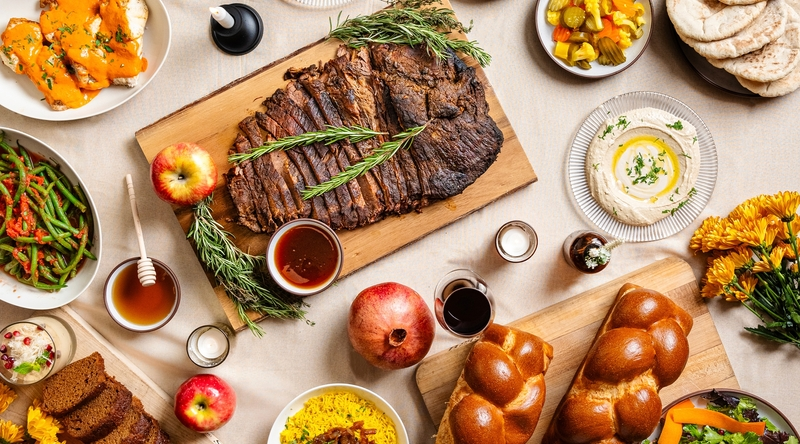
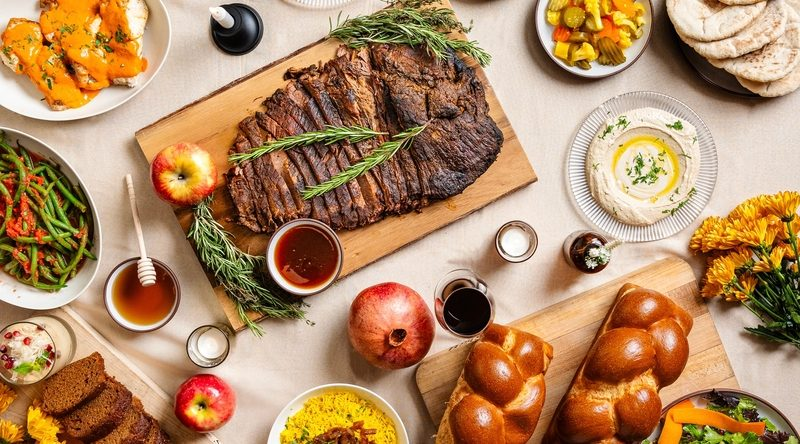
Fix core SEO fundamentals: meta tags, structured data, robots/sitemap, image weight
- Add unique meta descriptions, geo-targeted titles, canonical links, and
  Open Graph/Twitter tags to every page (previously none existed anywhere)
- Add FoodEstablishment JSON-LD schema on the homepage listing all delivery
  zones and pricing, for rich results eligibility
- Add robots.txt and sitemap.xml (neither existed before)
- Add noindex to admin/checkout/confirmation pages
- Fix homepage copy to include real geo/service keywords (Miami, Aventura,
  Fort Lauderdale) that were previously buried and invisible to search
- Compress all product/hero images from PNG to optimized JPEG (25.8MB ->
  2.2MB across images/), add width/height and loading=lazy/fetchpriority
  attributes to prevent layout shift and improve LCP
- Split Cache-Control in vercel.json so static assets get long-lived caching
  instead of no-cache on everything

Changed region(s): [[0.0625, 0.9955, 0.0938, 1.0], [0.0312, 0.0878, 0.0625, 0.1171]]

diff --git a/index.html b/index.html
@@ -4,7 +4,19 @@
   <meta charset="UTF-8"/>
   <meta name="viewport" content="width=device-width, initial-scale=1.0"/>
   <meta name="color-scheme" content="light"/>
-  <title>Chefaleh — Private Chef Shabbat Delivery</title>
+  <title>Chefaleh — Private Chef Shabbat Delivery in Miami, Aventura & Fort Lauderdale</title>
+  <meta name="description" content="Chefaleh delivers restaurant-quality, private-chef Shabbat meals to Miami Beach, Surfside, Bal Harbour, Aventura, Sunny Isles Beach, Hollywood, Hallandale, Fort Lauderdale, Pompano Beach and Boca Raton. Order fresh, ready-to-heat dinners for your table."/>
+  <link rel="canonical" href="https://chefaleh.com/"/>
+  <meta property="og:type" content="website"/>
+  <meta property="og:site_name" content="Chefaleh"/>
+  <meta property="og:title" content="Chefaleh — Private Chef Shabbat Delivery in Miami"/>
+  <meta property="og:description" content="Restaurant-quality private-chef Shabbat meals delivered fresh to Miami Beach, Aventura, Fort Lauderdale and surrounding areas."/>
+  <meta property="og:url" content="https://chefaleh.com/"/>
+  <meta property="og:image" content="https://chefaleh.com/images/shabbat_table_hero.jpg"/>
+  <meta name="twitter:card" content="summary_large_image"/>
+  <meta name="twitter:title" content="Chefaleh — Private Chef Shabbat Delivery in Miami"/>
+  <meta name="twitter:description" content="Restaurant-quality private-chef Shabbat meals delivered fresh to Miami Beach, Aventura, Fort Lauderdale and surrounding areas."/>
+  <meta name="twitter:image" content="https://chefaleh.com/images/shabbat_table_hero.jpg"/>
   <script src="https://cdn.tailwindcss.com"></script>
   <link href="https://fonts.googleapis.com/css2?family=Cormorant+Garamond:ital,wght@0,300;0,400;0,600;0,700;1,300;1,400;1,600&family=Jost:wght@200;300;400;500&display=swap" rel="stylesheet"/>
   <script>
@@ -90,6 +102,42 @@
     .bg-charcoal\/75 { background-color: rgba(26,26,26,.75) !important; }
     .bg-charcoal\/40 { background-color: rgba(26,26,26,.40) !important; }
   </style>
+  <script type="application/ld+json">
+  {
+    "@context": "https://schema.org",
+    "@type": "FoodEstablishment",
+    "name": "Chefaleh",
+    "description": "Private-chef Shabbat meal delivery service serving South Florida.",
+    "url": "https://chefaleh.com/",
+    "image": "https://chefaleh.com/images/shabbat_table_hero.jpg",
+    "email": "[email redacted]",
+    "servesCuisine": "Kosher-style Shabbat cuisine",
+    "priceRange": "$$",
+    "areaServed": [
+      { "@type": "City", "name": "Miami Beach" },
+      { "@type": "City", "name": "Surfside" },
+      { "@type": "City", "name": "Bal Harbour" },
+      { "@type": "City", "name": "North Bay Village" },
+      { "@type": "City", "name": "Aventura" },
+      { "@type": "City", "name": "Sunny Isles Beach" },
+      { "@type": "City", "name": "North Miami Beach" },
+      { "@type": "City", "name": "Hollywood" },
+      { "@type": "City", "name": "Hallandale Beach" },
+      { "@type": "City", "name": "Fort Lauderdale" },
+      { "@type": "City", "name": "Pompano Beach" },
+      { "@type": "City", "name": "Boca Raton" }
+    ],
+    "hasOfferCatalog": {
+      "@type": "OfferCatalog",
+      "name": "Delivery Zones",
+      "itemListElement": [
+        { "@type": "Offer", "name": "Zone 1 — Core Area Delivery", "price": "15", "priceCurrency": "USD" },
+        { "@type": "Offer", "name": "Zone 2 — Extended Area Delivery", "price": "30", "priceCurrency": "USD" },
+        { "@type": "Offer", "name": "Zone 3 — Long Range Delivery", "price": "60", "priceCurrency": "USD" }
+      ]
+    }
+  }
+  </script>
 </head>
 <body>
 
@@ -159,18 +207,18 @@
      HERO
 ──────────────────────────────────────────────────────────────── -->
 <section class="relative min-h-screen flex items-center overflow-hidden">
-  <img src="images/shabbat_table_hero.png" alt="Elegant Shabbat Table" class="hero-img"/>
+  <img src="images/shabbat_table_hero.jpg" alt="Elegant Shabbat Table" class="hero-img" width="1536" height="864" fetchpriority="high"/>
   <div class="hero-overlay"></div>
 
   <div class="relative z-10 w-full max-w-7xl mx-auto px-6 md:px-10 py-36 flex flex-col items-center text-center fade-up">
     <p class="text-gold text-[10px] md:text-[11px] tracking-[.5em] uppercase mb-6 font-light" style="text-shadow:0 1px 8px rgba(0,0,0,.8)">
-      Private Chef Experience
+      Private Chef Shabbat Delivery &middot; Miami
     </p>
     <h1 class="font-serif text-white font-semibold leading-[1.07] mb-7" style="font-size:clamp(2.8rem,7.5vw,5.8rem);text-shadow:0 4px 20px rgba(0,0,0,.7)">
       Elevated Traditions,<br/><em class="font-light italic text-white/90">Curated for Your Table</em>
     </h1>
     <p class="text-white/80 font-light text-sm md:text-[15px] leading-relaxed mb-11 max-w-md md:max-w-xl mx-auto" style="text-shadow:0 1px 10px rgba(0,0,0,.7)">
-      Bespoke Shabbat cuisine crafted with hand-selected ingredients<br class="hidden sm:block"/> and small-batch precision.
+      Bespoke Shabbat cuisine for Miami tables, crafted with hand-selected ingredients<br class="hidden sm:block"/> and small-batch precision.
     </p>
     <div class="flex flex-col sm:flex-row gap-4 items-center justify-center">
       <a href="menu.html" class="bg-gold text-charcoal px-10 py-4 text-[11px] tracking-[.32em] uppercase font-medium hover:bg-white transition-all duration-300 w-full sm:w-auto text-center min-w-[180px]">
@@ -290,7 +338,7 @@
           </div>
         </div>
         <div class="hover-zoom" style="height:170px">
-          <img src="images/new_meat.png" alt="Premium meat dish" class="w-full h-full object-cover object-center"/>
+          <img src="images/new_meat.jpg" alt="Premium meat dish" class="w-full h-full object-cover object-center" width="1408" height="1056" loading="lazy"/>
         </div>
       </div>
     </div>
@@ -303,7 +351,7 @@
 <section class="py-24 md:py-28 bg-charcoal relative overflow-hidden">
   <!-- subtle bg texture -->
   <div class="absolute inset-0 opacity-8 pointer-events-none">
-    <img src="images/food1.jpg" alt="" class="w-full h-full object-cover"/>
+    <img src="images/food1.jpg" alt="" class="w-full h-full object-cover" width="1600" height="889" loading="lazy"/>
     <div class="absolute inset-0 bg-charcoal/75"></div>
   </div>
 
@@ -331,13 +379,13 @@
 
     <div class="grid grid-cols-1 md:grid-cols-3 gap-5 mb-12">
       <div class="hover-zoom" style="height:300px">
-        <img src="images/food3.png" alt="Featured dish" class="w-full h-full object-cover"/>
+        <img src="images/food3.jpg" alt="Featured dish" class="w-full h-full object-cover" width="1200" height="1600" loading="lazy"/>
       </div>
       <div class="hover-zoom dish-mid" style="height:300px">
-        <img src="images/food4.png" alt="Featured dish" class="w-full h-full object-cover"/>
+        <img src="images/food4.jpg" alt="Featured dish" class="w-full h-full object-cover" width="1200" height="1600" loading="lazy"/>
       </div>
       <div class="hover-zoom" style="height:300px">
-        <img src="images/food5.png" alt="Featured dish" class="w-full h-full object-cover"/>
+        <img src="images/food5.jpg" alt="Featured dish" class="w-full h-full object-cover" width="1200" height="1600" loading="lazy"/>
       </div>
     </div>
 
@@ -422,7 +470,7 @@
   <div class="grid grid-cols-1 lg:grid-cols-2">
     <!-- Image left -->
     <div class="hover-zoom" style="min-height:340px">
-      <img src="images/food1.jpg" alt="Chefaleh dish" class="w-full h-full object-cover" style="min-height:340px"/>
+      <img src="images/food1.jpg" alt="Chefaleh dish" class="w-full h-full object-cover" style="min-height:340px" width="1600" height="889" loading="lazy"/>
     </div>
     <!-- Text right -->
     <div class="flex flex-col justify-center px-9 md:px-14 py-16 md:py-22 bg-charcoal">

diff --git a/about.html b/about.html
@@ -3,7 +3,19 @@
 <head>
   <meta charset="UTF-8"/>
   <meta name="viewport" content="width=device-width, initial-scale=1.0"/>
-  <title>About — Chefaleh</title>
+  <title>About Chefaleh — Private Chef Shabbat Catering in Miami</title>
+  <meta name="description" content="Meet the private chef behind Chefaleh's Shabbat meal delivery, serving Miami Beach, Aventura, Fort Lauderdale and surrounding South Florida communities with hand-crafted, restaurant-quality dinners."/>
+  <link rel="canonical" href="https://chefaleh.com/about.html"/>
+  <meta property="og:type" content="website"/>
+  <meta property="og:site_name" content="Chefaleh"/>
+  <meta property="og:title" content="About Chefaleh — Private Chef Shabbat Catering in Miami"/>
+  <meta property="og:description" content="Meet the private chef behind Chefaleh's Shabbat meal delivery, serving Miami Beach, Aventura, Fort Lauderdale and surrounding South Florida communities."/>
+  <meta property="og:url" content="https://chefaleh.com/about.html"/>
+  <meta property="og:image" content="https://chefaleh.com/images/chef.png"/>
+  <meta name="twitter:card" content="summary_large_image"/>
+  <meta name="twitter:title" content="About Chefaleh — Private Chef Shabbat Catering in Miami"/>
+  <meta name="twitter:description" content="Meet the private chef behind Chefaleh's Shabbat meal delivery, serving Miami Beach, Aventura and Fort Lauderdale."/>
+  <meta name="twitter:image" content="https://chefaleh.com/images/chef.png"/>
   <script src="https://cdn.tailwindcss.com"></script>
   <link href="https://fonts.googleapis.com/css2?family=Cormorant+Garamond:ital,wght@0,300;0,400;0,600;0,700;1,300;1,400;1,600&family=Jost:wght@200;300;400;500&display=swap" rel="stylesheet"/>
   <script>
@@ -92,7 +104,7 @@
 <!-- HEADER -->
 <section class="pt-36 md:pt-40 pb-16 md:pb-20 bg-charcoal text-center relative overflow-hidden">
   <div class="absolute inset-0 opacity-20">
-    <img src="images/food3.png" alt="" class="w-full h-full object-cover"/>
+    <img src="images/food3.jpg" alt="" class="w-full h-full object-cover" width="1200" height="1600"/>
   </div>
   <div class="relative z-10 px-5">
     <p class="text-gold text-xs tracking-[.4em] uppercase mb-4 font-light">Our Story</p>
@@ -137,7 +149,7 @@
           </div>
         </div>
         <div class="overflow-hidden" style="height:200px">
-          <img src="images/fresh_meat.png" alt="Fresh juicy meat" class="w-full h-full object-cover object-center"/>
+          <img src="images/fresh_meat.jpg" alt="Fresh juicy meat" class="w-full h-full object-cover object-center" width="1536" height="864" loading="lazy"/>
         </div>
       </div>
     </div>
@@ -178,7 +190,7 @@
   <div class="max-w-7xl mx-auto px-5 md:px-8">
     <div class="grid grid-cols-1 lg:grid-cols-2 gap-10 md:gap-16 items-center">
       <div class="overflow-hidden" style="height:300px;max-height:420px">
-        <img src="images/chef.png" alt="Our Chef" class="w-full h-full object-cover object-center"/>
+        <img src="images/chef.png" alt="Our Chef" class="w-full h-full object-cover object-center" width="500" height="270" loading="lazy"/>
       </div>
       <div>
         <p class="text-gold text-xs tracking-[.4em] uppercase mb-5 font-light">Behind the Counter</p>

diff --git a/menu.html b/menu.html
@@ -3,7 +3,19 @@
 <head>
   <meta charset="UTF-8"/>
   <meta name="viewport" content="width=device-width, initial-scale=1.0"/>
-  <title>Menu — Chefaleh</title>
+  <title>Shabbat Menu — Chefaleh Private Chef Delivery in Miami</title>
+  <meta name="description" content="Browse Chefaleh's private-chef Shabbat menu — fresh, ready-to-heat dinners delivered to Miami Beach, Aventura, Fort Lauderdale and surrounding South Florida areas. Order online for Friday delivery."/>
+  <link rel="canonical" href="https://chefaleh.com/menu.html"/>
+  <meta property="og:type" content="website"/>
+  <meta property="og:site_name" content="Chefaleh"/>
+  <meta property="og:title" content="Shabbat Menu — Chefaleh Private Chef Delivery in Miami"/>
+  <meta property="og:description" content="Browse Chefaleh's private-chef Shabbat menu — fresh, ready-to-heat dinners delivered across South Florida."/>
+  <meta property="og:url" content="https://chefaleh.com/menu.html"/>
+  <meta property="og:image" content="https://chefaleh.com/images/food1.jpg"/>
+  <meta name="twitter:card" content="summary_large_image"/>
+  <meta name="twitter:title" content="Shabbat Menu — Chefaleh Private Chef Delivery in Miami"/>
+  <meta name="twitter:description" content="Browse Chefaleh's private-chef Shabbat menu — fresh, ready-to-heat dinners delivered across South Florida."/>
+  <meta name="twitter:image" content="https://chefaleh.com/images/food1.jpg"/>
   <script src="https://cdn.tailwindcss.com"></script>
   <link href="https://fonts.googleapis.com/css2?family=Cormorant+Garamond:ital,wght@0,300;0,400;0,600;0,700;1,300;1,400;1,600&family=Jost:wght@200;300;400;500&display=swap" rel="stylesheet"/>
   <script>
@@ -380,7 +392,7 @@ function makeCard(item) {
   const dark = item.dark;
   const imgH = item.small ? 'height:180px' : 'height:230px';
   const imgEl = item.img
-    ? `<img src="${item.img}" alt="${item.name}" class="cimg w-full h-full object-cover object-center" onerror="this.style.display='none'"/>`
+    ? `<img src="${item.img}" alt="${item.name}" class="cimg w-full h-full object-cover object-center" loading="lazy" onerror="this.style.display='none'"/>`
     : '';
   const tagEl = item.tag
     ? `<span class="absolute top-4 left-4 z-10 ${item.tag==='Signature'?'bg-gold text-charcoal':'bg-charcoal text-cream'} text-[10px] px-3 py-1 tracking-wider font-medium">${item.tag}</span>`

diff --git a/cookie-policy.html b/cookie-policy.html
@@ -4,6 +4,8 @@
   <meta charset="UTF-8"/>
   <meta name="viewport" content="width=device-width, initial-scale=1.0"/>
   <title>Cookie Policy — Chefaleh</title>
+  <meta name="description" content="Chefaleh's cookie policy — how we use cookies on our private-chef Shabbat delivery website."/>
+  <link rel="canonical" href="https://chefaleh.com/cookie-policy.html"/>
   <script src="https://cdn.tailwindcss.com"></script>
   <link href="https://fonts.googleapis.com/css2?family=Cormorant+Garamond:ital,wght@0,300;0,400;0,600;0,700;1,300;1,400;1,600&family=Jost:wght@200;300;400;500&display=swap" rel="stylesheet"/>
   <script>

diff --git a/privacy-policy.html b/privacy-policy.html
@@ -4,6 +4,8 @@
   <meta charset="UTF-8"/>
   <meta name="viewport" content="width=device-width, initial-scale=1.0"/>
   <title>Privacy Policy — Chefaleh</title>
+  <meta name="description" content="Chefaleh's privacy policy — how we collect, use and protect your information when you order Shabbat meal delivery."/>
+  <link rel="canonical" href="https://chefaleh.com/privacy-policy.html"/>
   <script src="https://cdn.tailwindcss.com"></script>
   <link href="https://fonts.googleapis.com/css2?family=Cormorant+Garamond:ital,wght@0,300;0,400;0,600;0,700;1,300;1,400;1,600&family=Jost:wght@200;300;400;500&display=swap" rel="stylesheet"/>
   <script>

diff --git a/terms-of-use.html b/terms-of-use.html
@@ -4,6 +4,8 @@
   <meta charset="UTF-8"/>
   <meta name="viewport" content="width=device-width, initial-scale=1.0"/>
   <title>Terms of Use — Chefaleh</title>
+  <meta name="description" content="Terms of use for Chefaleh's private-chef Shabbat meal delivery service."/>
+  <link rel="canonical" href="https://chefaleh.com/terms-of-use.html"/>
   <script src="https://cdn.tailwindcss.com"></script>
   <link href="https://fonts.googleapis.com/css2?family=Cormorant+Garamond:ital,wght@0,300;0,400;0,600;0,700;1,300;1,400;1,600&family=Jost:wght@200;300;400;500&display=swap" rel="stylesheet"/>
   <script>

diff --git a/admin.html b/admin.html
@@ -4,6 +4,7 @@
   <meta charset="UTF-8"/>
   <meta name="viewport" content="width=device-width, initial-scale=1.0"/>
   <title>Chefaleh Admin</title>
+  <meta name="robots" content="noindex,nofollow"/>
   <script src="https://cdn.tailwindcss.com"></script>
   <style>
     body { font-family: system-ui, sans-serif; background: #f5f5f5; }

diff --git a/checkout.html b/checkout.html
@@ -4,6 +4,7 @@
   <meta charset="UTF-8"/>
   <meta name="viewport" content="width=device-width, initial-scale=1.0"/>
   <title>Checkout — Chefaleh</title>
+  <meta name="robots" content="noindex,nofollow"/>
   <link rel="preconnect" href="https://fonts.googleapis.com"/>
   <link rel="preconnect" href="https://fonts.gstatic.com" crossorigin/>
   <link href="https://fonts.googleapis.com/css2?family=Cormorant+Garamond:wght@300;400;500;600;700&family=Jost:wght@200;300;400;500&display=swap" rel="stylesheet"/>

diff --git a/confirmation.html b/confirmation.html
@@ -4,6 +4,7 @@
   <meta charset="UTF-8"/>
   <meta name="viewport" content="width=device-width, initial-scale=1.0"/>
   <title>Order Received — Chefaleh</title>
+  <meta name="robots" content="noindex,nofollow"/>
   <script src="https://cdn.tailwindcss.com"></script>
   <link href="https://fonts.googleapis.com/css2?family=Cormorant+Garamond:wght@300;400;500;600&family=Jost:wght@200;300;400;500&display=swap" rel="stylesheet"/>
   <script>